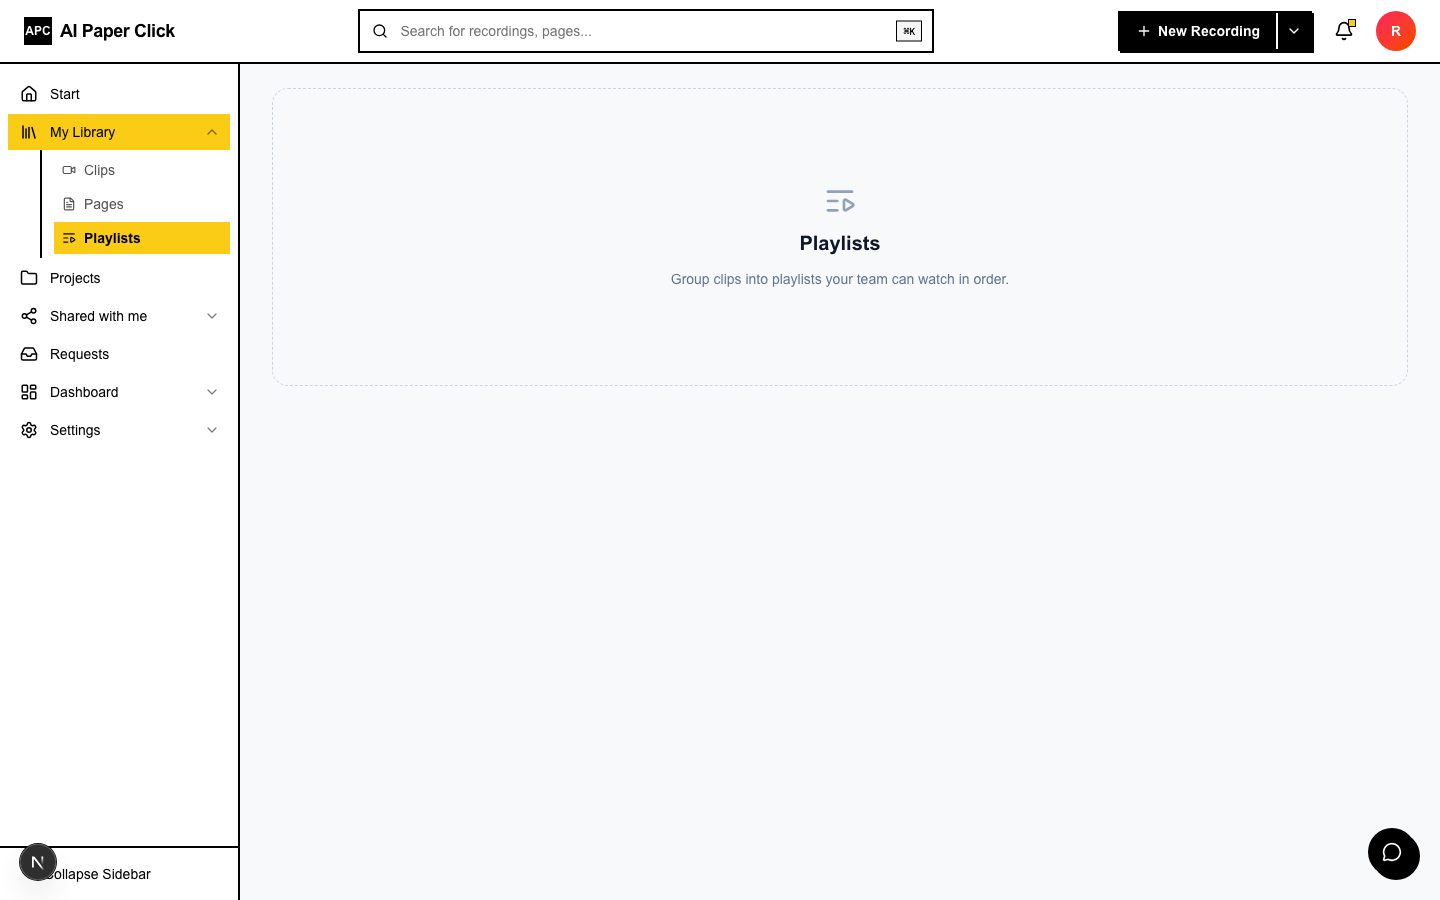
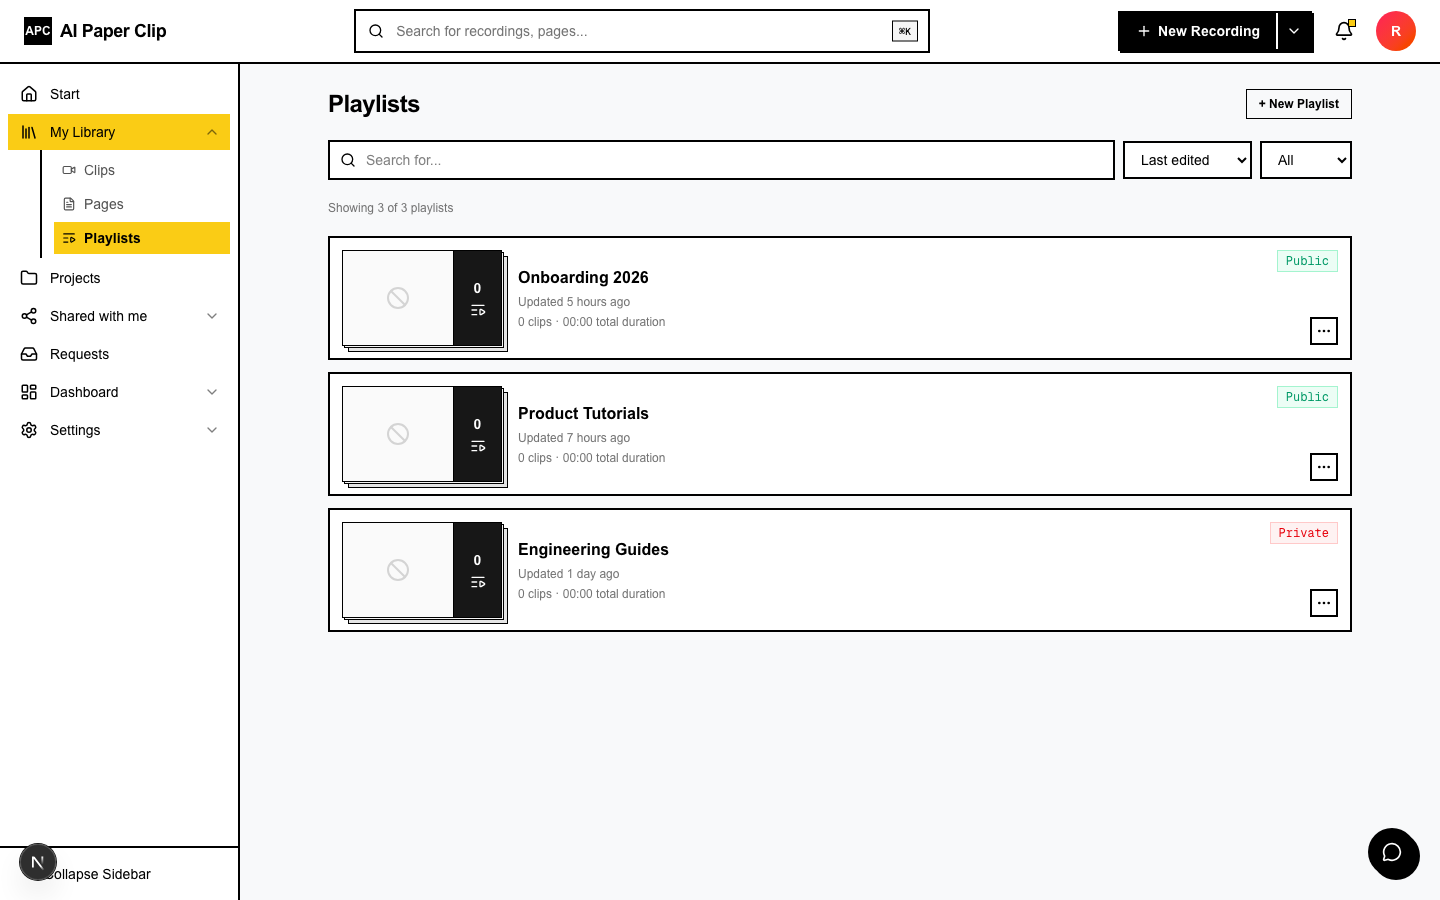
Update docs for the built-out Playlists page
Retook the Library — Playlists screenshot (it still showed the old
placeholder) and moved it out of README's "not built yet" section.
Also added the Playlist detail route and the auth/review pages to the
route map in docs/pages.md, which had fallen behind.

diff --git a/docs/pages.md b/docs/pages.md
@@ -11,12 +11,20 @@ app/
 │   ├── library/
 │   │   ├── clips/page.tsx ........  Library — Clips (filter, sort, search, card grid)
 │   │   ├── pages/page.tsx ........  Library — Pages (filter, sort, search, card grid)
-│   │   └── playlists/page.tsx ....  Library — Playlists (placeholder)
+│   │   └── playlists/
+│   │       ├── page.tsx ..........  Library — Playlists (filter, sort, visibility, new-playlist modal)
+│   │       └── [id]/page.tsx .....  Playlist detail — its assigned clips
 │   ├── projects/page.tsx .........  Projects (placeholder)
 │   ├── requests/page.tsx .........  Requests (placeholder)
 │   ├── shared/page.tsx ...........  Shared with me (placeholder)
 │   └── settings/account/page.tsx    Account Settings — profile form, avatar upload, accordions
-├── studio/page.tsx ...............  Video Studio — screen/camera recording, timeline editor
+├── (auth)/                          shared shell: just the APC mark, no dashboard chrome
+│   ├── login/page.tsx ............  Login — credentials, Microsoft/Google SSO
+│   ├── signup/page.tsx ...........  Workspace signup — email + OTP verification
+│   └── reset-password/page.tsx ...  Password reset request
+├── studio/
+│   ├── page.tsx ...................  Video Studio — screen/camera recording, timeline editor
+│   └── review/page.tsx ............  Review & Publish — playlist assignment, description, step guide
 └── health/page.tsx ...............  Health Check — live frontend → backend → MySQL status
 ```
 

diff --git a/README.md b/README.md
@@ -26,6 +26,9 @@ maps to a route in the code.
 ### Library — Pages
 ![Library — Pages](docs/screenshots/library-pages.png)
 
+### Library — Playlists
+![Library — Playlists](docs/screenshots/library-playlists.png)
+
 ### Video Studio
 ![Video Studio](docs/screenshots/studio.png)
 
@@ -40,9 +43,6 @@ maps to a route in the code.
 
 ### Analytics
 ![Analytics](docs/screenshots/analytics-dashboard.png)
-
-### Library — Playlists
-![Library — Playlists](docs/screenshots/library-playlists.png)
 
 ### Projects
 ![Projects](docs/screenshots/projects.png)
